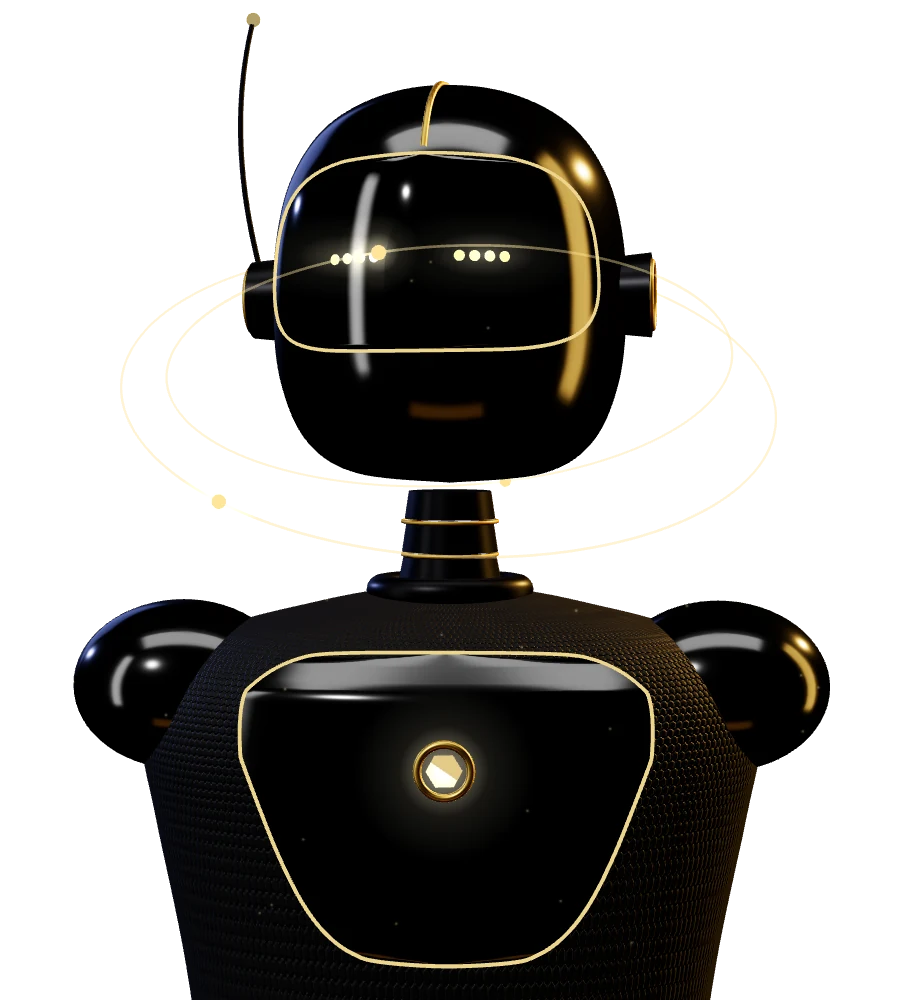
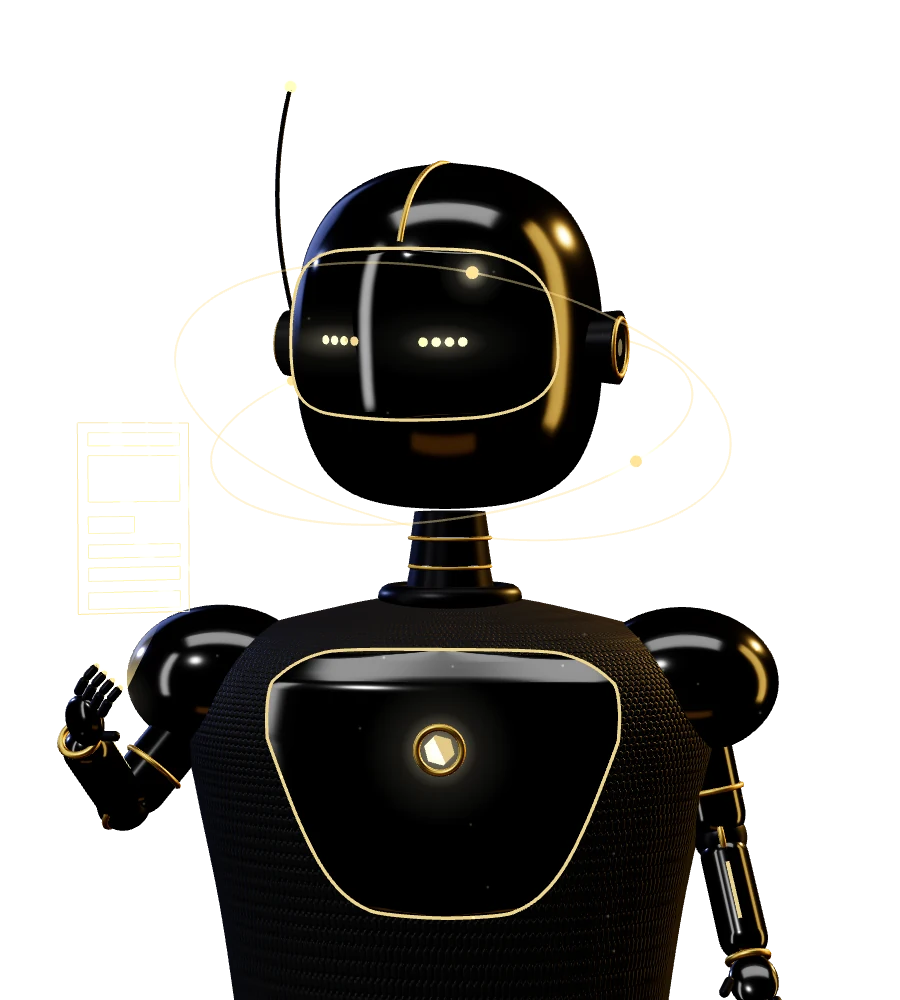
Robot: jointed arms and hands, think-build-ship hologram, wave, page-wide shockwave
- Arms with shoulder, elbow, wrist and four jointed fingers plus thumb.
- Left hand holds a hologram that cycles think -> build -> ship through
  App, Website, AI video and Brand content; the HUD card narrates it and
  an idle robot glances at its own work.
- Click: the right arm waves, and a shockwave rolls out from the robot
  across the whole viewport, nudging cards and headings and pushing the
  starfield as the wave front passes.
- Fallback poster re-rendered with the new pose.

Claude-Session: https://claude.ai/code/session_015eqTR573K2DCbNVapnDCEF

diff --git a/js/robot.js b/js/robot.js
@@ -216,6 +216,46 @@ function init() {
     body.add(pad);
   }
 
+  // arms: shoulder -> upper arm -> elbow -> forearm -> wrist -> hand with jointed fingers
+  const arms = [];
+  const L1 = .58, L2 = .52;
+  for (const side of [-1, 1]) {
+    const shoulder = new THREE.Group();
+    shoulder.position.set(side * 1.02, -.4, 0);
+    body.add(shoulder);
+    const upper = new THREE.Group(); shoulder.add(upper);
+    const uMesh = new THREE.Mesh(new THREE.CapsuleGeometry(.125, L1 - .2, 8, 28), M.shell);
+    uMesh.position.y = -L1 / 2; upper.add(uMesh);
+    const uBand = new THREE.Mesh(new THREE.TorusGeometry(.13, .012, 8, 40), M.gold);
+    uBand.rotation.x = Math.PI / 2; uBand.position.y = -L1 * .66; upper.add(uBand);
+    const elbow = new THREE.Group(); elbow.position.y = -L1; upper.add(elbow);
+    elbow.add(new THREE.Mesh(new THREE.SphereGeometry(.112, 28, 18), M.metal));
+    const eRing = new THREE.Mesh(new THREE.TorusGeometry(.114, .014, 8, 40), M.gold); eRing.rotation.y = Math.PI / 2; elbow.add(eRing);
+    const fore = new THREE.Group(); elbow.add(fore);
+    const fMesh = new THREE.Mesh(new THREE.CapsuleGeometry(.1, L2 - .18, 8, 28), M.shell);
+    fMesh.position.y = -L2 / 2; fore.add(fMesh);
+    const ledMat = clip(new THREE.MeshBasicMaterial({ color: GOLD.clone(), toneMapped: false }));
+    const strip = new THREE.Mesh(new THREE.BoxGeometry(.016, L2 * .46, .012), ledMat);
+    strip.position.set(0, -L2 * .5, .1); fore.add(strip);
+    const wrist = new THREE.Group(); wrist.position.y = -L2; fore.add(wrist);
+    const wRing = new THREE.Mesh(new THREE.TorusGeometry(.08, .016, 8, 32), M.gold); wRing.rotation.x = Math.PI / 2; wrist.add(wRing);
+    const hand = new THREE.Group(); wrist.add(hand);
+    const palm = new THREE.Mesh(new THREE.SphereGeometry(1, 28, 18), M.shell); palm.scale.set(.1, .115, .05); palm.position.y = -.1; hand.add(palm);
+    const fingers = [];
+    for (let f = 0; f < 4; f++) {
+      const base = new THREE.Group(); base.position.set((f - 1.5) * .047, -.195, 0); hand.add(base);
+      const s1 = new THREE.Mesh(new THREE.CapsuleGeometry(.02, .045, 4, 10), M.metal); s1.position.y = -.035; base.add(s1);
+      const knuckle = new THREE.Group(); knuckle.position.y = -.075; base.add(knuckle);
+      const s2 = new THREE.Mesh(new THREE.CapsuleGeometry(.018, .035, 4, 10), M.metal); s2.position.y = -.03; knuckle.add(s2);
+      const tip = new THREE.Mesh(new THREE.SphereGeometry(.013, 10, 8), ledMat); tip.position.y = -.062; knuckle.add(tip);
+      fingers.push({ base, knuckle, f });
+    }
+    const thumb = new THREE.Group(); thumb.position.set(-side * .085, -.08, .015); hand.add(thumb);
+    const tS = new THREE.Mesh(new THREE.CapsuleGeometry(.021, .055, 4, 10), M.metal); tS.position.y = -.045; thumb.add(tS);
+    const anchor = new THREE.Object3D(); anchor.position.set(0, -.13, .14); hand.add(anchor); // a point just above the palm
+    arms.push({ side, shoulder, upper, elbow, fore, wrist, hand, fingers, thumb, anchor, ledMat });
+  }
+
   // collar + neck
   const collar = new THREE.Mesh(new THREE.TorusGeometry(.25, .055, 16, 64), M.metal);
   collar.rotation.x = Math.PI / 2; collar.scale.set(1, .8, 1); collar.position.y = .03;
@@ -359,6 +399,62 @@ function init() {
   const particles = new THREE.Points(pGeo, pMat);
   robot.add(particles);
 
+  /* hologram the robot builds above its palm: app, website, video, brand content */
+  const holo = new THREE.Group(); body.add(holo);
+  const holoFill = new THREE.MeshBasicMaterial({ color: GOLD, transparent: true, opacity: .16, side: THREE.DoubleSide, depthWrite: false, toneMapped: false, blending: THREE.AdditiveBlending });
+  const holoLine = new THREE.LineBasicMaterial({ color: GOLD, transparent: true, opacity: .95, depthWrite: false, toneMapped: false, blending: THREE.AdditiveBlending });
+  const LAYOUTS = [
+    { name: 'App', frame: [.34, .58], blocks: [[0, .24, .28, .04], [0, .12, .28, .14], [-.07, -.02, .14, .05], [0, -.1, .28, .04], [0, -.17, .28, .04], [0, -.25, .28, .05]] },
+    { name: 'Website', frame: [.64, .42], blocks: [[0, .17, .6, .04], [-.15, .06, .28, .12], [.15, .06, .26, .12], [-.2, -.09, .17, .1], [0, -.09, .17, .1], [.2, -.09, .17, .1], [0, -.17, .2, .03]] },
+    { name: 'AI video', frame: [.62, .38], blocks: [[0, .03, .56, .26], [0, -.15, .56, .02], [-.14, -.15, .28, .025]], tri: true },
+    { name: 'Brand content', frame: [.48, .48], blocks: [[-.15, -.12, .07, .12], [-.05, -.08, .07, .2], [.05, -.03, .07, .3], [.15, .03, .07, .42]], arrow: true },
+  ];
+  const rectLine = (w, h) => {
+    const g = new THREE.BufferGeometry().setFromPoints([new THREE.Vector3(-w / 2, -h / 2, 0), new THREE.Vector3(w / 2, -h / 2, 0), new THREE.Vector3(w / 2, h / 2, 0), new THREE.Vector3(-w / 2, h / 2, 0), new THREE.Vector3(-w / 2, -h / 2, 0)]);
+    return new THREE.Line(g, holoLine);
+  };
+  const builds = LAYOUTS.map((L) => {
+    const g = new THREE.Group(); g.visible = false; holo.add(g);
+    const frame = rectLine(L.frame[0], L.frame[1]); g.add(frame);
+    const parts = L.blocks.map(([x, y, w, h]) => {
+      const p = new THREE.Group(); p.position.set(x, y, .01);
+      p.add(new THREE.Mesh(new THREE.PlaneGeometry(w, h), holoFill), rectLine(w, h));
+      p.scale.setScalar(.001); g.add(p); return p;
+    });
+    if (L.tri) {
+      const s = new THREE.Shape(); s.moveTo(-.035, -.045); s.lineTo(.055, 0); s.lineTo(-.035, .045); s.closePath();
+      const p = new THREE.Group(); p.position.set(0, .03, .02);
+      p.add(new THREE.Mesh(new THREE.ShapeGeometry(s), new THREE.MeshBasicMaterial({ color: GOLD, transparent: true, opacity: .9, depthWrite: false, toneMapped: false, blending: THREE.AdditiveBlending })));
+      p.scale.setScalar(.001); g.add(p); parts.push(p);
+    }
+    if (L.arrow) {
+      const pts = [[-.2, -.14], [-.08, -.02], [.02, -.06], [.19, .17]].map(([x, y]) => new THREE.Vector3(x, y, .02));
+      const p = new THREE.Group(); p.add(new THREE.Line(new THREE.BufferGeometry().setFromPoints(pts), holoLine));
+      p.scale.setScalar(.001); g.add(p); parts.push(p);
+    }
+    return { g, frame, parts, L };
+  });
+  // light beam from the palm up to the hologram, a spark in the palm, and a scan line across the build
+  const beamTex = (() => {
+    const c = document.createElement('canvas'); c.width = 4; c.height = 64;
+    const x = c.getContext('2d'); const gr = x.createLinearGradient(0, 0, 0, 64);
+    gr.addColorStop(0, 'rgba(255,255,255,0)'); gr.addColorStop(1, 'rgba(255,255,255,1)');
+    x.fillStyle = gr; x.fillRect(0, 0, 4, 64);
+    const t = new THREE.CanvasTexture(c); t.colorSpace = THREE.SRGBColorSpace; return t;
+  })();
+  const beamMat = new THREE.MeshBasicMaterial({ map: beamTex, color: GOLD, transparent: true, opacity: .0, side: THREE.DoubleSide, depthWrite: false, toneMapped: false, blending: THREE.AdditiveBlending });
+  const beam = new THREE.Mesh(new THREE.CylinderGeometry(.2, .03, .34, 32, 1, true), beamMat); body.add(beam);
+  const palmSpark = glow(.36, 0); palmSpark.material.clippingPlanes = null; body.add(palmSpark);
+  const shipSpark = glow(.9, 0); shipSpark.material.clippingPlanes = null; body.add(shipSpark);
+  holo.traverse((o) => { o.userData.noWire = true; }); beam.userData.noWire = true;
+  const holoState = { phase: 'idle', t: 0, i: 0 };
+  const hudLabel = stage.querySelector('.robot__hud--a b');
+  const hudKicker = stage.querySelector('.robot__hud--a span');
+  function setHud(kicker, label) {
+    if (hudKicker && hudKicker.textContent !== kicker) hudKicker.textContent = kicker;
+    if (hudLabel && hudLabel.dataset.v !== label) { hudLabel.dataset.v = label; hudLabel.innerHTML = '<i class="dot dot--live"></i>' + label; }
+  }
+
   /* power aura: segmented hologram ring behind the head + click shockwave */
   const auraMat = new THREE.MeshBasicMaterial({ color: GOLD, transparent: true, opacity: .55, side: THREE.DoubleSide, depthWrite: false, toneMapped: false, blending: THREE.AdditiveBlending });
   const aura = new THREE.Group(); aura.position.set(0, .3, -.7); robot.add(aura);
@@ -375,7 +471,7 @@ function init() {
   const wires = [];
   const solids = [];
   body.traverse((o) => {
-    if (o.isMesh && !o.userData.mat && !['TubeGeometry', 'CircleGeometry'].includes(o.geometry.type)) solids.push(o);
+    if (o.isMesh && !o.userData.mat && !o.userData.noWire && !['TubeGeometry', 'CircleGeometry'].includes(o.geometry.type)) solids.push(o);
   });
   solids.forEach((o) => { const w = new THREE.Mesh(o.geometry, wireMat); o.add(w); wires.push(w); });
   const scanMat = new THREE.MeshBasicMaterial({ map: lineTexture(), color: GOLD, transparent: true, opacity: 0, blending: THREE.AdditiveBlending, depthWrite: false, depthTest: false, toneMapped: false });
@@ -388,7 +484,7 @@ function init() {
     w: 1, h: 1, visible: true, running: false,
     started: false, buildT: 0, built: false,
     look: new THREE.Vector2(0, 0), lookTarget: new THREE.Vector2(0, 0),
-    pointer: { x: 0, y: 0, inside: false, touchAt: -10 }, rect: null,
+    pointer: { x: 0, y: 0, inside: false, touchAt: -10, movedAt: -10 }, rect: null,
     nextBlink: 2.5, blinkT: -1, nextScan: 6, scanT: -1,
     greetT: -1, shockT: -1, msg: 0, bubbleTimer: 0,
     scroll: 0, light: root.dataset.theme === 'light',
@@ -402,7 +498,7 @@ function init() {
     renderer.setSize(S.w, S.h, false);
     camera.aspect = S.w / S.h;
     const t = Math.tan(THREE.MathUtils.degToRad(camera.fov / 2));
-    const dist = Math.max(2.05 / t, 1.62 / (t * camera.aspect));
+    const dist = Math.max(2.05 / t, 1.9 / (t * camera.aspect));
     camera.position.set(0, .2, dist);
     camera.lookAt(0, -.05, 0);
     camera.updateProjectionMatrix();
@@ -421,6 +517,8 @@ function init() {
     scanMat.color.set(S.light ? 0xb8891f : GOLD); scanMat.blending = blend; scanMat.needsUpdate = true;
     auraMat.blending = blend; auraMat.color.set(S.light ? 0x8a6a12 : GOLD); auraMat.opacity = S.light ? .4 : .55; auraMat.needsUpdate = true;
     shockMat.blending = blend; shockMat.color.set(S.light ? 0x8a6a12 : GOLD); shockMat.needsUpdate = true;
+    [holoFill, holoLine, beamMat].forEach((m) => { m.blending = blend; m.color.set(S.light ? 0x7a5a0c : GOLD); m.needsUpdate = true; });
+    holoFill.opacity = S.light ? .12 : .16;
     renderer.toneMappingExposure = S.light ? 1.15 : 1.05;
     if (S.started && !S.running) requestRender();
   }
@@ -429,7 +527,7 @@ function init() {
 
   /* ---- pointer: follow the real cursor position, relative to the head on screen */
   const onPointer = (e) => {
-    S.pointer.x = e.clientX; S.pointer.y = e.clientY;
+    S.pointer.x = e.clientX; S.pointer.y = e.clientY; S.pointer.movedAt = performance.now() / 1000;
     if (e.pointerType === 'touch') S.pointer.touchAt = performance.now() / 1000;
     else S.pointer.inside = true;
     if (reduced) requestRender();
@@ -464,6 +562,9 @@ function init() {
   function greet() {
     if (!S.built) return;
     S.greetT = 0; S.shockT = 0; S.msg++; say(S.msg); kick();
+    headPivot.getWorldPosition(tmpV); tmpV.y += .3; tmpV.z = 0;
+    const o = toStage(tmpV);
+    dispatchEvent(new CustomEvent('robot:shock', { detail: { x: S.rect.left + o.x, y: S.rect.top + o.y } }));
     if (reduced) requestRender();
   }
   const ray = new THREE.Raycaster();
@@ -550,7 +651,13 @@ function init() {
   }
   function placeOverlays() {
     if (S.w >= 560) {
-      core.getWorldPosition(tmpV); tmpV.y -= .35; setTop(hudCore, 'core', toStage(tmpV).y);   // beside the torso, below the shoulder pad
+      if (hudCore) {
+        holo.getWorldPosition(tmpV); tmpV.y += .42;
+        const p = toStage(tmpV);
+        const w = hudCore.offsetWidth, h = hudCore.offsetHeight;
+        const x = Math.round(Math.min(Math.max(p.x - w / 2, 0), S.w - w)), y = Math.round(p.y - h - 6);
+        if (x !== last.hx || y !== last.core) { hudCore.style.left = x + 'px'; hudCore.style.top = y + 'px'; hudCore.style.bottom = 'auto'; last.hx = x; last.core = y; }
+      }
       headPivot.getWorldPosition(tmpV); tmpV.y += .85; setTop(hudStack, 'stack', toStage(tmpV).y); // beside the upper head, above the rings
     }
     if (bubble && bubble.classList.contains('is-show')) {
@@ -597,9 +704,12 @@ function init() {
         THREE.MathUtils.clamp(Math.atan2(S.pointer.x - hx, depth), -.9, .9),
         THREE.MathUtils.clamp(Math.atan2(S.pointer.y - hy, depth), -.5, .4),
       );
+    } else if (S.built && holoState.phase !== 'idle') {
+      S.lookTarget.set(-.45 + Math.sin(t * .6) * .05, .18);   // look at the hologram in its hand
     } else {
       S.lookTarget.set(Math.sin(t * .45) * .4, Math.sin(t * .31) * .12);
     }
+    if (tracking && S.built && performance.now() / 1000 - S.pointer.movedAt > 3 && holoState.phase === 'build') S.lookTarget.set(-.45, .18);
     S.look.lerp(S.lookTarget, reduced ? 1 : 1 - Math.pow(.0012, dt));
     const yaw = S.look.x, pitch = S.look.y;
     headPivot.rotation.y = yaw * .8;
@@ -624,6 +734,71 @@ function init() {
       if (g > 2.2) S.greetT = -1;
     }
     headPivot.rotation.z = tilt;
+
+    /* arms: the left hand holds the hologram, the right one rests (and waves on click) */
+    const [build, rest] = arms;
+    const idleSway = reduced ? 0 : Math.sin(t * 1.3) * .03;
+    build.upper.rotation.set(-.45 + idleSway, 0, -.62);
+    build.fore.rotation.set(-1.75 + idleSway * 1.5, 0, -.3);
+    build.hand.rotation.set(-.5, 0, .25);
+    const busy = holoState.phase === 'build' ? 1 : 0;
+    build.fingers.forEach((f) => {
+      const tap = busy ? Math.max(0, Math.sin(t * 16 + f.f * 1.7)) * .35 : 0;
+      f.base.rotation.x = -.35 - tap; f.knuckle.rotation.x = -.45 - tap * .6;
+    });
+    build.thumb.rotation.set(-.3, 0, build.side * -.9);
+    let wave = 0;
+    if (S.greetT >= 0) wave = S.greetT < .25 ? ease(S.greetT / .25) : S.greetT > 1.9 ? Math.max(0, 1 - (S.greetT - 1.9) / .3) : 1;
+    const wig = Math.sin((S.greetT >= 0 ? S.greetT : 0) * 14) * .4 * wave;
+    rest.upper.rotation.set(lerp(-.12, -.25, wave), 0, lerp(.2, 2.55, wave));
+    rest.fore.rotation.set(lerp(-.4, -.1, wave), 0, lerp(0, .5, wave) + wig);
+    rest.hand.rotation.set(lerp(-.2, 0, wave), lerp(0, -.4, wave), 0);
+    rest.fingers.forEach((f) => { f.base.rotation.x = lerp(-.5, -.05, wave); f.knuckle.rotation.x = lerp(-.6, -.1, wave); });
+    rest.thumb.rotation.set(-.2, 0, rest.side * lerp(-.6, -1.1, wave));
+    arms.forEach((a, k) => a.ledMat.color.copy(GOLD).multiplyScalar(.6 + .5 * Math.max(0, Math.sin(t * 3 - k * 1.5)) + (k === 0 ? busy * .6 : wave * .8)));
+
+    /* hologram above the palm: think -> build -> ship, cycling through what Syed builds */
+    build.anchor.getWorldPosition(tmpV); body.worldToLocal(tmpV);
+    palmSpark.position.copy(tmpV);
+    beam.position.set(tmpV.x, tmpV.y + .17, tmpV.z);
+    holo.position.set(tmpV.x + .1, tmpV.y + .74, tmpV.z + .05);
+    holo.scale.setScalar(1.3);
+    holo.rotation.set(0, .32 + Math.sin(t * .7) * .08, 0);
+    if (S.built && !reduced) {
+      const H = holoState; H.t += dt;
+      const B = builds[H.i];
+      if (H.phase === 'idle') { H.phase = 'think'; H.t = 0; }
+      if (H.phase === 'think') {
+        setHud('Thinking', 'Planning the ' + B.L.name.toLowerCase() + '…');
+        if (H.t < dt * 1.5 && S.scanT < 0) S.scanT = 0;                  // eyes run a loading sweep
+        palmSpark.material.opacity = (.4 + .5 * Math.abs(Math.sin(t * 9))) * (palmSpark.userData.k || 1);
+        beamMat.opacity = 0;
+        if (H.t > 1.1) { H.phase = 'build'; H.t = 0; builds.forEach((b) => { b.g.visible = false; }); B.g.visible = true; B.g.scale.setScalar(1); B.g.position.set(0, 0, 0); holoLine.opacity = .95; holoFill.opacity = S.light ? .12 : .16; B.parts.forEach((p) => p.scale.setScalar(.001)); }
+      } else if (H.phase === 'build') {
+        setHud('Now building', B.L.name);
+        beamMat.opacity = Math.min(.5, H.t * 2) * (S.light ? .5 : 1);
+        palmSpark.material.opacity = .9 * (palmSpark.userData.k || 1);
+        B.frame.scale.set(1, Math.min(1, H.t / .35), 1);
+        const per = 1.9 / B.parts.length;
+        B.parts.forEach((p, k) => { const s = ease((H.t - .35 - k * per) / .28); p.scale.set(Math.max(.001, s), Math.max(.001, s), 1); });
+        if (H.t > 2.45) { H.phase = 'hold'; H.t = 0; }
+      } else if (H.phase === 'hold') {
+        setHud('Built', B.L.name + ' ✓');
+        holoLine.opacity = .7 + .3 * Math.sin(H.t * 12);
+        beamMat.opacity = Math.max(0, .5 - H.t * .5) * (S.light ? .5 : 1);
+        if (H.t > 1.1) { H.phase = 'ship'; H.t = 0; }
+      } else if (H.phase === 'ship') {
+        setHud('Shipped', B.L.name + ' ✓');
+        const k = ease(H.t / .7);
+        B.g.position.y = k * .9; B.g.scale.setScalar(1 + k * .35);
+        holoLine.opacity = .95 * (1 - k); holoFill.opacity = (S.light ? .12 : .16) * (1 - k);
+        shipSpark.position.set(holo.position.x, holo.position.y + k * .9, holo.position.z);
+        shipSpark.material.opacity = Math.sin(Math.min(1, H.t / .7) * Math.PI) * .9 * (shipSpark.userData.k || 1);
+        palmSpark.material.opacity = (1 - k) * .6 * (palmSpark.userData.k || 1);
+        beamMat.opacity = 0;
+        if (H.t > .75) { B.g.visible = false; shipSpark.material.opacity = 0; H.i = (H.i + 1) % builds.length; H.phase = 'think'; H.t = 0; }
+      }
+    }
 
     /* blink */
     if (t > S.nextBlink && S.blinkT < 0 && S.built) { S.blinkT = 0; S.nextBlink = t + 2.6 + Math.random() * 3.4; }

diff --git a/js/main.js b/js/main.js
@@ -383,10 +383,21 @@
         s.y -= .05 * s.z;
         if (s.y < -4) s.y = h + 4;
         const y = ((s.y - sy * .08 * s.z) % h + h) % h;
+        let px = s.x, py = y, boostA = 0;
+        const W = window.__shock;
+        if (W) {
+          const r = (performance.now() - W.t0) / 1000 * 1100;
+          if (r > W.max) window.__shock = null;
+          else {
+            const ddx = s.x - W.x, ddy = y - W.y, dd = Math.hypot(ddx, ddy) || 1;
+            const band = Math.exp(-Math.pow((dd - r) / 70, 2));
+            px += ddx / dd * band * 28; py += ddy / dd * band * 28; boostA = band;
+          }
+        }
         const a = (.35 + .65 * Math.abs(Math.sin(t * .8 + s.tw))) * (light ? .45 : .75) * s.z;
         if (light && !s.gold) continue;
         ctx.fillStyle = s.gold ? (light ? `rgba(124,92,14,${a * .5})` : `rgba(232,197,90,${a})`) : `rgba(255,255,255,${a * .65})`;
-        ctx.beginPath(); ctx.arc(s.x, y, s.r, 0, 6.283); ctx.fill();
+        ctx.beginPath(); ctx.arc(px, py, s.r * (1 + boostA * 1.6), 0, 6.283); ctx.fill();
       }
       if (mouse.active) {
         const dx = mouse.x - mouse.px, dy = mouse.y - mouse.py, speed = Math.hypot(dx, dy);
@@ -418,6 +429,82 @@
   /* ---------- Robot safety net: if the 3D view never comes alive, keep the still image ---------- */
   const robotStage = $('#robotStage');
   setTimeout(() => { if (robotStage && !robotStage.classList.contains('is-live')) { robotStage.classList.add('is-fallback'); robotStage.setAttribute('aria-label', 'AI robot illustration'); } }, 9000);
+
+  /* ---------- Robot shockwave: rolls out from the robot across the whole page ---------- */
+  const shockCanvas = $('#shock');
+  if (shockCanvas && !reduced) {
+    const sx = shockCanvas.getContext('2d');
+    const waves = [];
+    let shockRaf = 0;
+    const SPEED = 1100; // px per second
+    const sizeShock = () => {
+      const dpr = Math.min(devicePixelRatio || 1, 2);
+      shockCanvas.width = innerWidth * dpr; shockCanvas.height = innerHeight * dpr;
+      sx.setTransform(dpr, 0, 0, dpr, 0, 0);
+    };
+    sizeShock();
+    addEventListener('resize', sizeShock);
+
+    const drawShock = (now) => {
+      sx.clearRect(0, 0, innerWidth, innerHeight);
+      const light = root.dataset.theme === 'light';
+      const rgb = light ? '138,101,12' : '232,197,90';
+      for (let i = waves.length - 1; i >= 0; i--) {
+        const w = waves[i];
+        const r = (now - w.t0) / 1000 * SPEED;
+        const fade = Math.max(0, 1 - r / w.max);
+        if (fade <= 0) { waves.splice(i, 1); continue; }
+        // a soft flash at the origin, then a bright ring with a wide glowing wake
+        if (r < 260) {
+          const f = sx.createRadialGradient(w.x, w.y, 0, w.x, w.y, 260);
+          f.addColorStop(0, `rgba(${rgb},${.35 * (1 - r / 260)})`); f.addColorStop(1, `rgba(${rgb},0)`);
+          sx.fillStyle = f; sx.beginPath(); sx.arc(w.x, w.y, 260, 0, 6.283); sx.fill();
+        }
+        [[46, .07], [22, .14], [9, .3], [2.5, .9]].forEach(([lw, a]) => {
+          sx.strokeStyle = `rgba(${rgb},${a * fade})`; sx.lineWidth = lw;
+          sx.beginPath(); sx.arc(w.x, w.y, r, 0, 6.283); sx.stroke();
+        });
+        const r2 = r * .72;  // a second, fainter echo ring behind the first
+        sx.strokeStyle = `rgba(${rgb},${.35 * fade})`; sx.lineWidth = 1.5;
+        sx.beginPath(); sx.arc(w.x, w.y, r2, 0, 6.283); sx.stroke();
+      }
+      if (waves.length) shockRaf = requestAnimationFrame(drawShock);
+      else sx.clearRect(0, 0, innerWidth, innerHeight);
+    };
+
+    // everything on screen gets pushed outward as the wave front passes it
+    const RIPPLE = '.nav, .hero__copy > *, .robot__hud, .marquee__row, .shead, .about__photo, .about__text > *, .journey li, .proj, .svc, .phone, .reel__text > *, .step, .ai, .tile, .cred, .contact__head, .link, .footer > *';
+    addEventListener('robot:shock', (e) => {
+      const { x, y } = e.detail;
+      const max = Math.hypot(Math.max(x, innerWidth - x), Math.max(y, innerHeight - y)) + 80;
+      waves.push({ x, y, t0: performance.now(), max });
+      cancelAnimationFrame(shockRaf); shockRaf = requestAnimationFrame(drawShock);
+      window.__shock = { x, y, t0: performance.now(), max }; // read by the starfield
+      $$(RIPPLE).forEach((el) => {
+        const b = el.getBoundingClientRect();
+        if (b.bottom < -40 || b.top > innerHeight + 40 || b.width === 0) return;
+        const cx = b.left + b.width / 2, cy = b.top + b.height / 2;
+        const d = Math.max(1, Math.hypot(cx - x, cy - y));
+        const amp = 16 * Math.max(.3, 1 - d / 1600);
+        const dx = (cx - x) / d * amp, dy = (cy - y) / d * amp;
+        try {
+          el.animate([
+            { transform: 'translate(0, 0) scale(1)' },
+            { transform: `translate(${dx.toFixed(1)}px, ${dy.toFixed(1)}px) scale(1.02)`, offset: .3 },
+            { transform: `translate(${(-dx * .25).toFixed(1)}px, ${(-dy * .25).toFixed(1)}px) scale(.995)`, offset: .65 },
+            { transform: 'translate(0, 0) scale(1)' },
+          ], { duration: 760, delay: d / SPEED * 1000, easing: 'cubic-bezier(.2,.8,.2,1)', composite: 'add' });
+        } catch (err) { /* composite not supported: skip the nudge */ }
+        if (el.matches('.proj, .svc, .step, .ai, .tile, .cred, .link, .robot__hud')) {
+          el.animate([
+            { boxShadow: '0 0 0 0 rgba(214,176,76,0)' },
+            { boxShadow: '0 0 0 1px rgba(214,176,76,.9), 0 0 36px -4px rgba(214,176,76,.55)', offset: .25 },
+            { boxShadow: '0 0 0 0 rgba(214,176,76,0)' },
+          ], { duration: 900, delay: d / SPEED * 1000, easing: 'ease-out' });
+        }
+      });
+    });
+  }
 
   root.classList.add('js-ready'); // everything above ran: cancel the CSS failsafes
 })();

diff --git a/css/styles.css b/css/styles.css
@@ -592,3 +592,7 @@ html:has(dialog[open]) { overflow: hidden; }
 @keyframes shot-in { from { opacity: 0; transform: translateY(40px) rotateX(18deg) scale(.92); } to { opacity: 1; transform: none; } }
 @keyframes shot-float { 0%, 100% { opacity: 1; transform: translateY(0) rotate(0); } 50% { opacity: 1; transform: translateY(-12px) rotate(calc((var(--k) - 1) * 1.2deg)); } }
 @media (max-width: 560px) { .case__shots { justify-content: flex-start; } .case__shots img { height: 300px; } .case__shots figure:nth-child(2) { margin-top: 0; } }
+
+/* page-wide shockwave overlay (drawn only while a wave runs) */
+.shock { position: fixed; inset: 0; width: 100%; height: 100%; z-index: 95; pointer-events: none; }
+.robot__hud--a { transition-property: opacity, transform; }

diff --git a/index.html b/index.html
@@ -33,6 +33,7 @@
 </div>
 
 <canvas id="fx" class="fx" aria-hidden="true"></canvas>
+<canvas id="shock" class="shock" aria-hidden="true"></canvas>
 <div class="grain" aria-hidden="true"></div>
 <div class="progress" aria-hidden="true"><span id="progressBar"></span></div>
 
